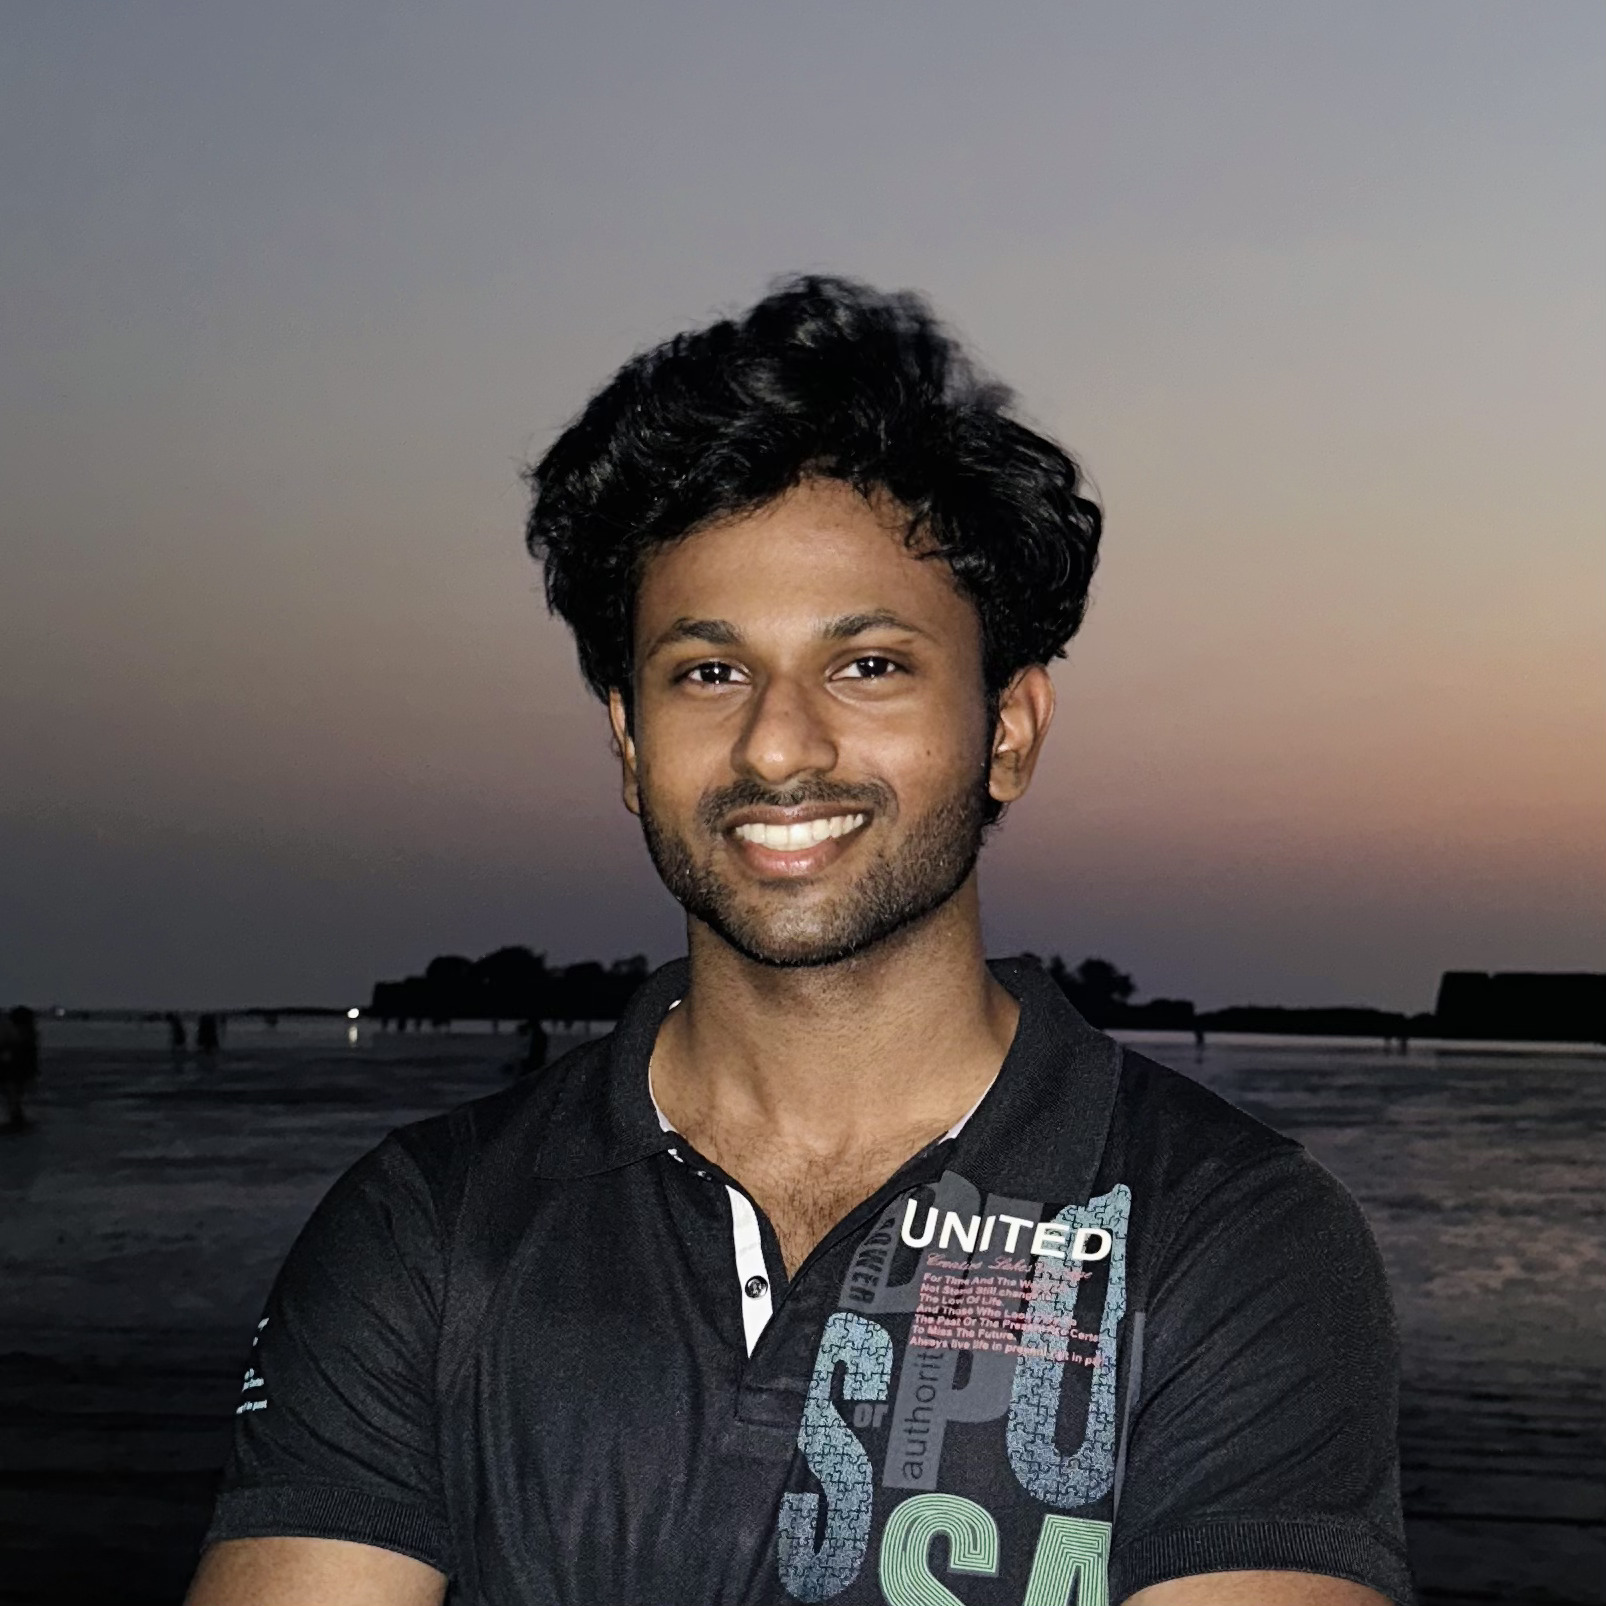
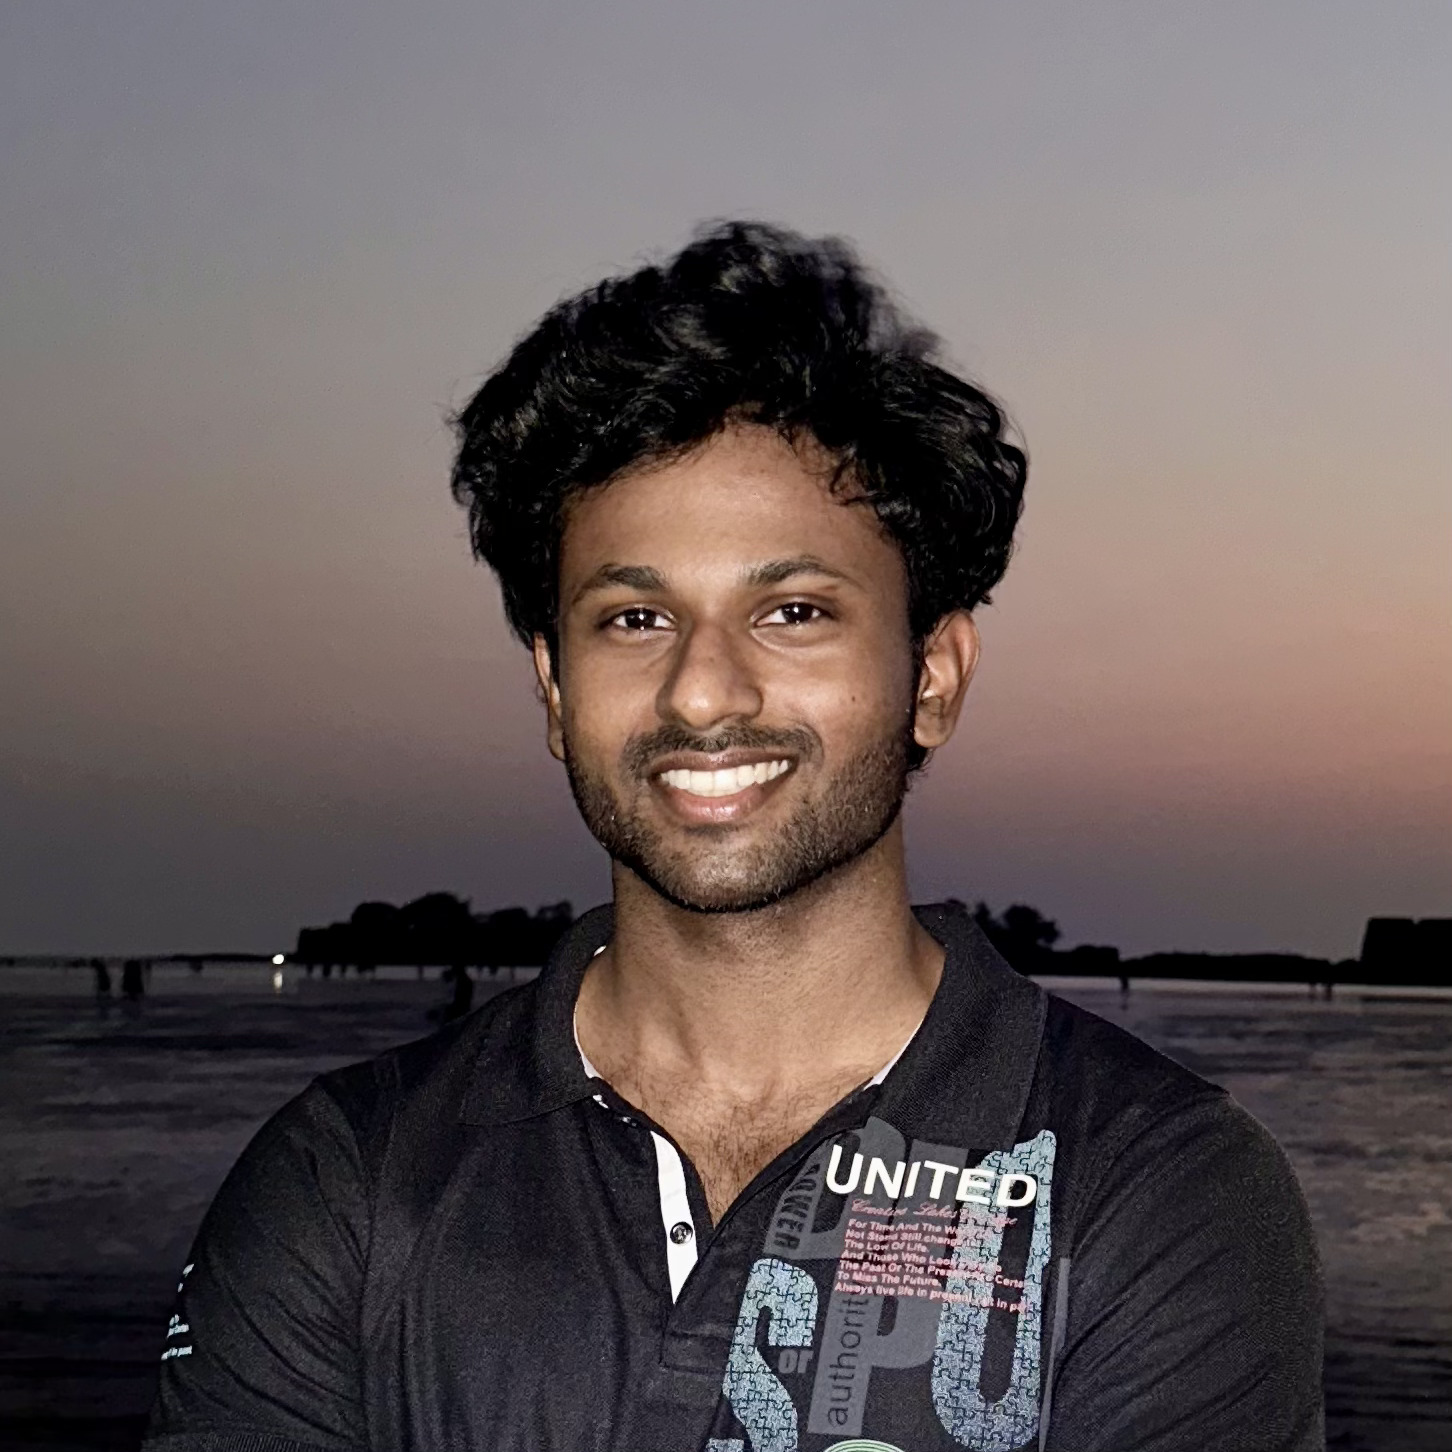
added notes

Changed region(s): [[0.0, 0.155, 1.0, 1.0], [0.0, 0.7748, 0.186, 0.8678], [0.093, 0.8988, 0.124, 0.9298]]

diff --git a/data/frontiers/research-notes/ruffoloDesignHighlyFunctional2025.md b/data/frontiers/research-notes/ruffoloDesignHighlyFunctional2025.md
@@ -1,0 +1,147 @@
+---
+published: "2025-09-01"
+added: "2026-10-11"
+modified: "2026-10-13"
+authors: Jeffrey A. Ruffolo, Stephen Nayfach, Joseph Gallagher, Aadyot Bhatnagar, Joel Beazer, Riffat Hussain, Jordan Russ, Jennifer Yip, Emily Hill, Martin Pacesa, Alexander J. Meeske, Peter Cameron, Ali Madani
+abstract: "Gene editing has the potential to solve fundamental challenges in agriculture, biotechnology and human health. CRISPR-based gene editors derived from microorganisms, although powerful, often show notable functional tradeoffs when ported into non-native environments, such as human cells1. Artificial-intelligence-enabled design provides a powerful alternative with the potential to bypass evolutionary constraints and generate editors with optimal properties. Here, using large language models2 trained on biological diversity at scale, we demonstrate successful precision editing of the human genome with a programmable gene editor designed with artificial intelligence. To achieve this goal, we curated a dataset of more than 1 million CRISPR operons through systematic mining of 26 terabases of assembled genomes and metagenomes. We demonstrate the capacity of our models by generating 4.8× the number of protein clusters across CRISPR–Cas families found in nature and tailoring single-guide RNA sequences for Cas9-like effector proteins. Several of the generated gene editors show comparable or improved activity and specificity relative to SpCas9, the prototypical gene editing effector, while being 400 mutations away in sequence. Finally, we demonstrate that an artificial-intelligence-generated gene editor, denoted as OpenCRISPR-1, exhibits compatibility with base editing. We release OpenCRISPR-1 to facilitate broad, ethical use across research and commercial applications."
+---
+
+# Design of highly functional genome editors by modelling CRISPR–Cas sequences
+
+[URL](https://www.nature.com/articles/s41586-025-09298-z)
+
+## Tags
+
+
+## Notes
+
+<span style="color:
+#FFF176;">
+CRISPR-based gene editors derived from microorganisms, although powerful, often show notable functional tradeoffs when ported into non-native environments, such as human cells</span>
+([1](zotero://open-pdf/library/items/NQ2XVX9U?page=1&annotation=R4ABZT84))
+
+
+
+
+
+
+
+
+
+
+<span style="color:
+#FFF176;">
+we demonstrate successful precision editing of the human genome with a programmable gene editor designed with artificial intelligence</span>
+([1](zotero://open-pdf/library/items/NQ2XVX9U?page=1&annotation=A525MCQ4))
+
+
+
+
+
+
+
+
+
+
+<span style="color:
+#FFF176;">
+1 million CRISPR operons</span>
+([1](zotero://open-pdf/library/items/NQ2XVX9U?page=1&annotation=NBPN97X4))
+
+
+
+
+
+Operon: genetic module containing multiple genes.
+
+
+#operon
+
+
+
+
+<span style="color:
+#FFF176;">
+26 terabases of assembled genomes and metagenomes</span>
+([1](zotero://open-pdf/library/items/NQ2XVX9U?page=1&annotation=QNP2KLSN))
+
+
+
+
+
+Terabase: 1 Trillion Basepairs
+
+26 trillion * 2 bits = 52 trillion bits
+
+52 trillion bits / 8 bits per byte = 6.5 terabyte
+
+A, T, G, C are bases
+
+A-T is a basepair
+G-C is a basepair
+
+
+
+
+
+<span style="color:
+#FFF176;">
+4.8× the number of protein clusters across CRISPR–Cas families found in nature and tailoring single-guide RNA sequences</span>
+([1](zotero://open-pdf/library/items/NQ2XVX9U?page=1&annotation=Z457KGVL))
+
+
+
+
+
+sgRNA is an engineered RNA molecule that directs Cas9 protein to a specific DNA location.
+
+sgRNA has 2 parts:
+
+1. Guide Sequence: Recognize target DNA, through complementary base pairing
+
+2. Scaffold: Folds into a 3D structure to help Cas9 do its function on DNA
+
+
+#sgrna
+
+
+
+
+<span style="color:
+#FFF176;">
+improved activity and specificity relative to SpCas9, the prototypical gene editing effector, while being 400 mutations away in sequence</span>
+([1](zotero://open-pdf/library/items/NQ2XVX9U?page=1&annotation=QI7T3LV6))
+
+
+
+
+
+SpCas9: Widely used Cas9 protein from Streptococcus pyogenes.
+
+SpCas9 contains 1368 amino acids.
+
+A difference of:
+
+400/1568 * 100
+= 29%
+
+
+#spcas9
+
+
+
+
+<span style="color:
+#FFF176;">
+OpenCRISPR-1, exhibits compatibility with base editing</span>
+([1](zotero://open-pdf/library/items/NQ2XVX9U?page=1&annotation=KJG95SYR))
+
+
+
+
+
+
+
+
+
+
